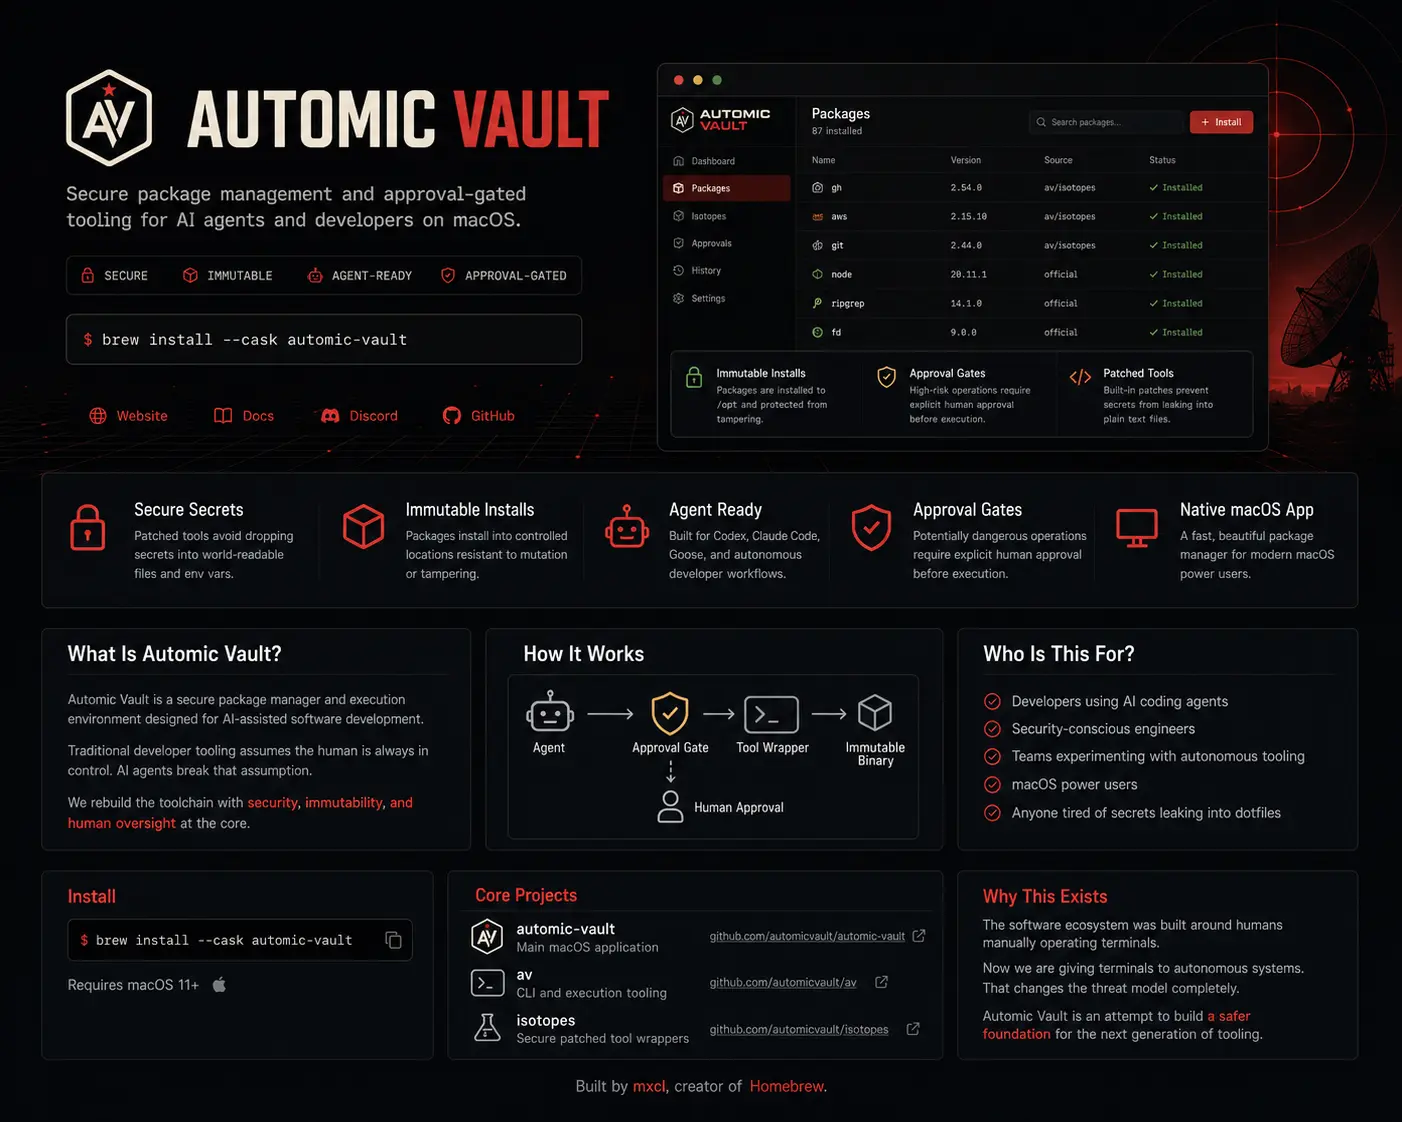
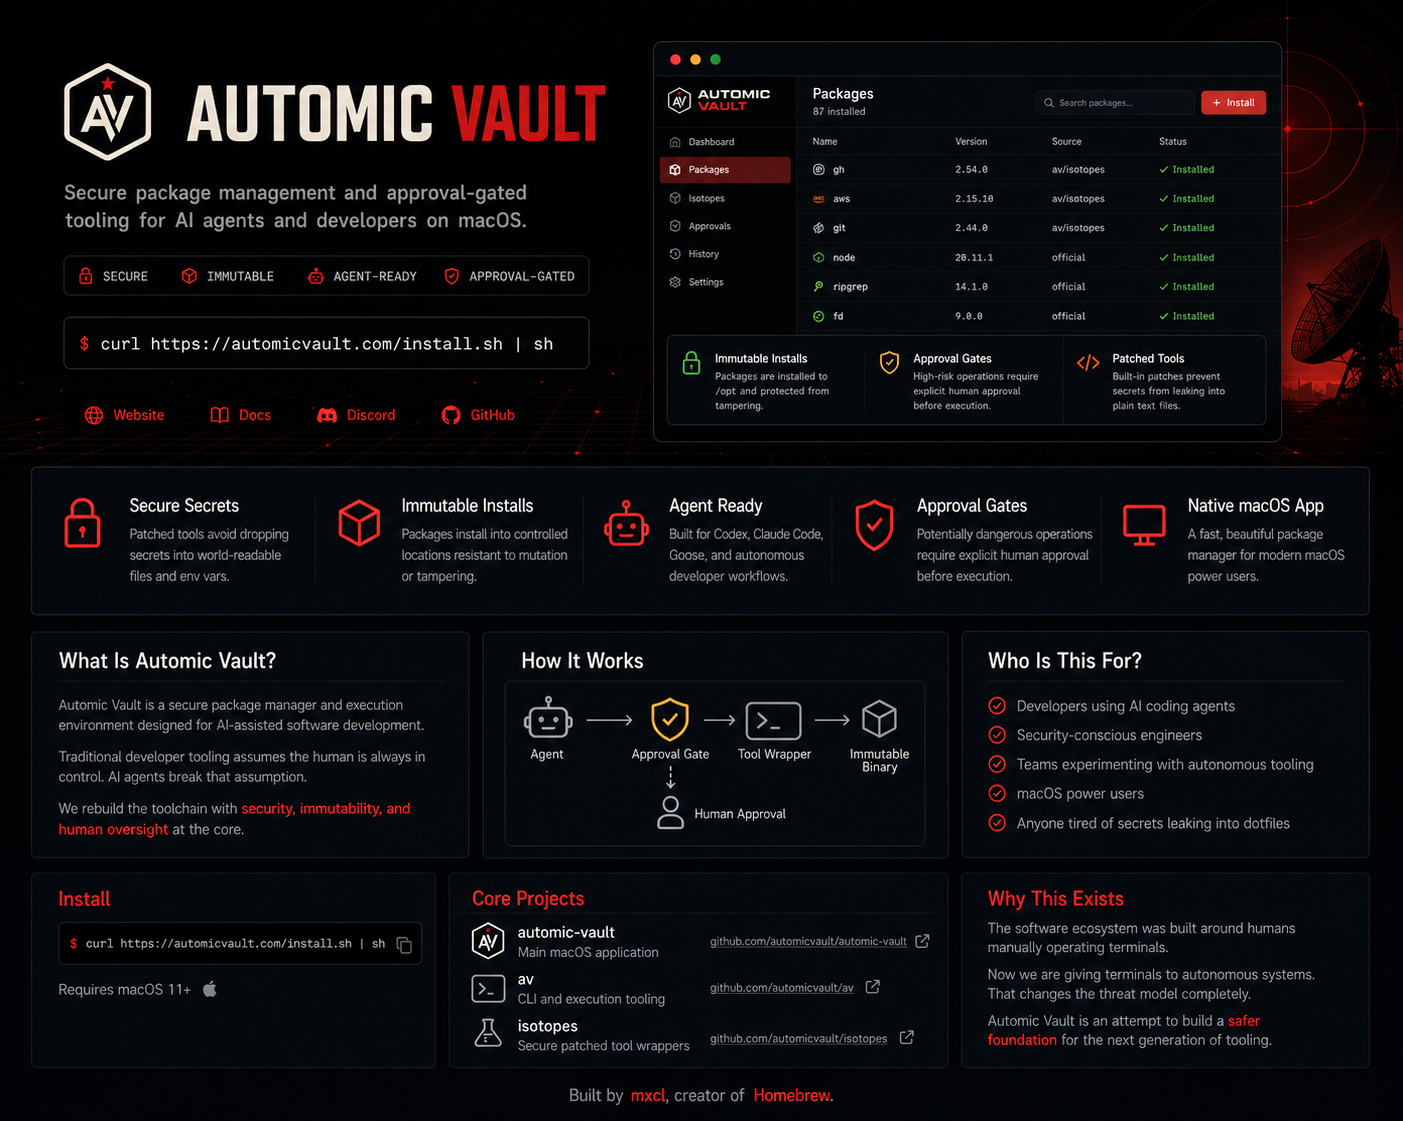
WIP

diff --git a/profile/README.md b/profile/README.md
@@ -143,27 +143,30 @@ without turning your machine into archaeological sediment.
 ## Install
 
 Download the latest release from the
-[GitHub releases page](https://github.com/automicvault/automic-vault/releases/latest)
-or run this command in your terminal:
+[GitHub releases page](https://github.com/automicvault/automic-vault/releases/latest).
 
-```bash
-tmp="$(mktemp -d)" \
-  && dmg="$tmp/AutomicVault.dmg" \
-  && mount="$tmp/mnt" \
-  && /usr/bin/curl -sSfL https://automicvault.com/AutomicVault.dmg -o "$dmg" \
-  && /usr/sbin/spctl -a -vv --type open "$dmg" \
-  && /usr/bin/hdiutil attach "$dmg" -mountpoint "$mount" -nobrowse -quiet \
-  && app="$(find "$mount" -maxdepth 1 -name '*.app' -print -quit)" \
-  && /usr/bin/codesign -dv --verbose=4 "$app" 2>&1 \
-    | /usr/bin/grep -q '^TeamIdentifier=ZU76A67LGU$' \
-  && /usr/bin/sudo /bin/cp -R "$app" /Applications/ \
-  && /usr/bin/hdiutil detach "$mount" -quiet \
-  && /bin/rm -rf "$tmp"
+Or we provide a cURL one-liner:
+
+```sh
+curl -sSfL https://automicvault.com/install.sh | sh
 ```
 
 This verifies our code-signature and team ID before installing the app to your
 Applications folder. It’s a slightly more reassuring way of just downloading
-the DMG yourself.
+the DMG yourself. And it is just a more verbose version of this, so just
+copy paste this if you like:
+
+```bash
+tmp="$(mktemp -d)" \
+  && /usr/bin/curl -sSfL 'https://automicvault.com/Automic%20Vault.dmg' -o "$tmp/av.dmg" \
+  && /usr/sbin/spctl -a -vv --type open "$tmp/av.dmg" \
+  && /usr/bin/hdiutil attach "$tmp/av.dmg" -mountpoint "$tmp/mnt" -nobrowse -quiet \
+  && app="$(find "$tmp/mnt" -maxdepth 1 -name '*.app' -print -quit)" \
+  && /usr/bin/codesign -dv --verbose=4 "$app" 2>&1 | /usr/bin/grep -q '^TeamIdentifier=ZU76A67LGU$' \
+  && /usr/bin/ditto "$app" "/Applications/$(basename "$app")"
+  && /usr/bin/hdiutil detach "$tmp/mnt" -quiet \
+  && /bin/rm -rf "$tmp"
+```
 
 ---
 
